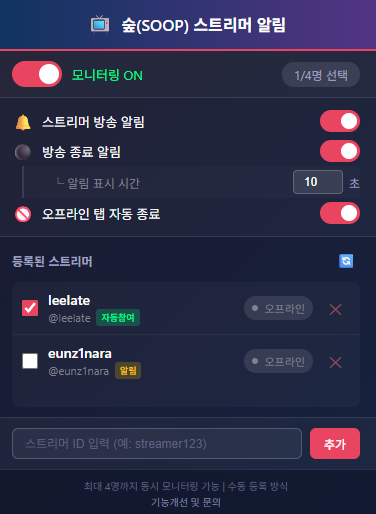
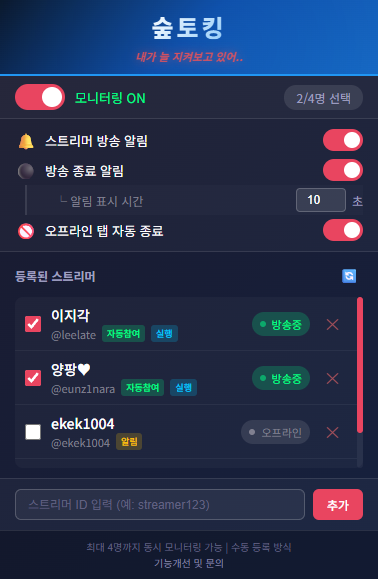
📸 README UI 스크린샷 및 설명 업데이트
- 새로운 UI 스크린샷으로 교체
- UI 구성 ASCII 아트 현재 디자인에 맞게 수정
- 숲토킹 / 내가 늘 지켜보고 있어.. 레이아웃 반영

🤖 Generated with [Claude Code](https://claude.com/claude-code)

diff --git a/README.md b/README.md
@@ -38,21 +38,21 @@
 
 ```
 ┌─────────────────────────────────────┐
-│           📺 숲토킹                 │
-│     SOOP 스트리머 방송 알림         │
+│             숲토킹                  │
+│      내가 늘 지켜보고 있어..        │
 ├─────────────────────────────────────┤
-│  🔘 모니터링 ON          0/4명 선택 │
+│  🔘 모니터링 ON          2/4명 선택 │
 ├─────────────────────────────────────┤
-│  🔔 기타 스트리머 알림        [ON]  │
-│      알림 표시 시간      [ 10 ] 초  │
+│  🔔 스트리머 방송 알림        [ON]  │
 │  ⚫ 방송 종료 알림           [OFF]  │
-│  🚫 오프라인 탭 자동 종료    [ON]   │
+│      └ 알림 표시 시간    [ 10 ] 초  │
+│  🚫 오프라인 탭 자동 종료     [ON]  │
 ├─────────────────────────────────────┤
 │  등록된 스트리머                 🔄 │
 │  ┌─────────────────────────────────┐│
-│  │☑ 닉네임A [자동참여][실행]🟢방송중││
-│  │☐ 닉네임B [알림][미실행] 🟢방송중 ││
-│  │☐ 닉네임C [알림]       ⚪오프라인 ││
+│  │☑ 이지각 [자동참여][실행]🔴방송중││
+│  │☑ 양팡♥ [자동참여]      🔴방송중 ││
+│  │☐ ekek1004 [알림]     ⚪오프라인 ││
 │  └─────────────────────────────────┘│
 ├─────────────────────────────────────┤
 │  [스트리머 ID 입력        ] [추가]  │
